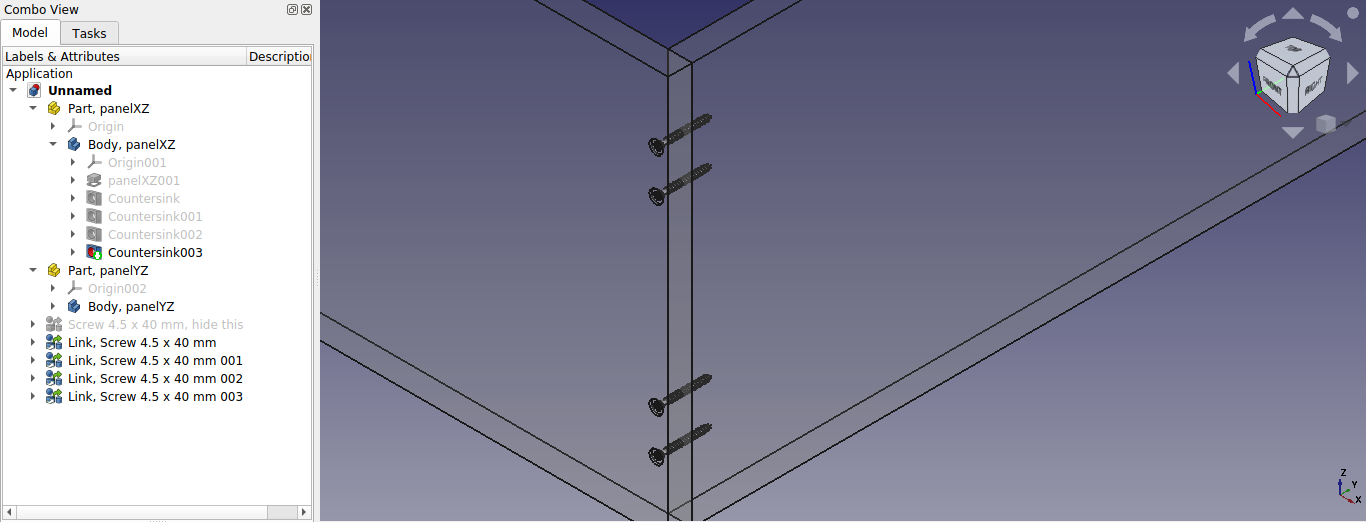
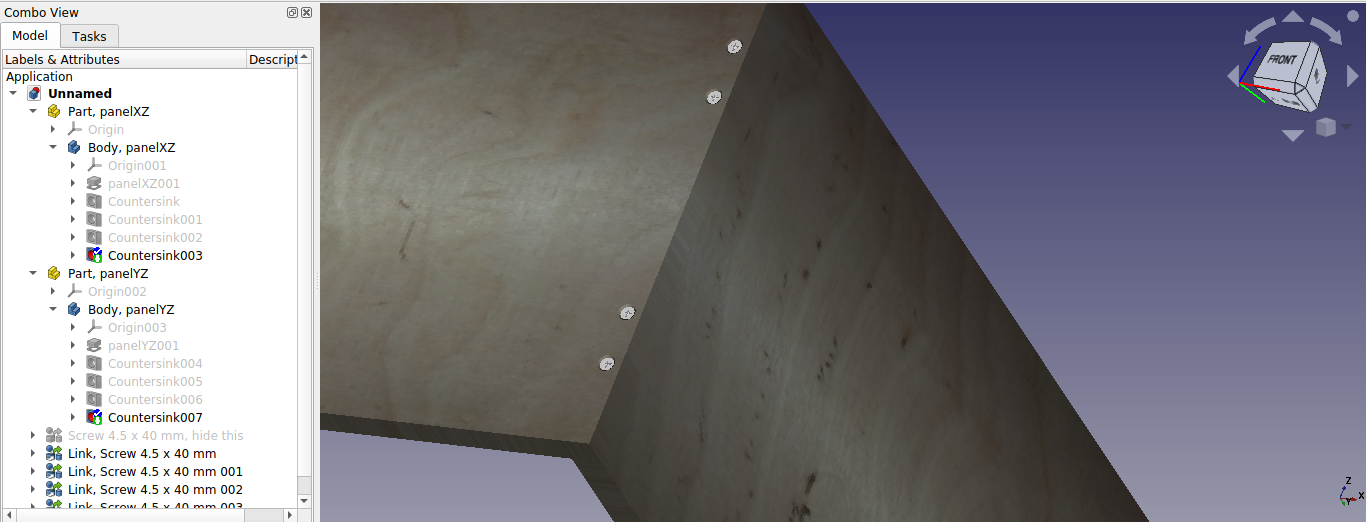
docs & realistic screws for angles

diff --git a/Tools/MagicPanels/MagicPanels.py b/Tools/MagicPanels/MagicPanels.py
@@ -3339,46 +3339,56 @@ def sketch2dowel():
 	
 		objects = FreeCADGui.Selection.getSelection()
 
-		if len(objects) != 2:
+		if len(objects) < 2:
 			raise
+
+		face = FreeCADGui.Selection.getSelectionEx()[0].SubObjects[0]
+
+		i = 0
+		for o in objects:
 		
-		sketch = FreeCADGui.Selection.getSelection()[0]
-		face = FreeCADGui.Selection.getSelectionEx()[1].SubObjects[0]
-		
-		if not sketch.isDerivedFrom("Sketcher::SketchObject"):
-			raise
+			i = i + 1
 			
-		hole = ""
-			
-		if sketch.InList[0].isDerivedFrom("PartDesign::Hole"):
-			hole = sketch.InList[0]
-			
-		if sketch.InList[1].isDerivedFrom("PartDesign::Hole"):
-			hole = sketch.InList[1]
-			
-		if hole == "":
-			raise
+			if i == 1:
+				base = o
+				continue
+
+			sketch = o
+
+			if not sketch.isDerivedFrom("Sketcher::SketchObject"):
+				raise
 				
-		x = sketch.Placement.Base.x
-		y = sketch.Placement.Base.y
-		z = sketch.Placement.Base.z
-		r = getFaceObjectRotation(hole, face)
-			
-		d = FreeCAD.ActiveDocument.addObject("Part::Cylinder","DowelSketch")
-		d.Label = "Dowel - " + str(sketch.Label)
+			hole = ""
+				
+			if sketch.InList[0].isDerivedFrom("PartDesign::Hole"):
+				hole = sketch.InList[0]
+				
+			if sketch.InList[1].isDerivedFrom("PartDesign::Hole"):
+				hole = sketch.InList[1]
+				
+			if hole == "":
+				raise
+					
+			x = sketch.Placement.Base.x
+			y = sketch.Placement.Base.y
+			z = sketch.Placement.Base.z
+			r = getFaceObjectRotation(hole, face)
+				
+			d = FreeCAD.ActiveDocument.addObject("Part::Cylinder","DowelSketch")
+			d.Label = "Dowel - " + str(sketch.Label)
 
-		d.Radius = hole.Diameter / 2
-		d.Height = hole.Depth
+			d.Radius = hole.Diameter / 2
+			d.Height = hole.Depth
 
-		setPlacement(d, x, y, z, r)
+			setPlacement(d, x, y, z, r)
 
-		return d
+		return
 
 	except:
 		
 		info = ""
 		
-		info += translate('sketch2dowel', 'This tool allows to create dowel at the selected hole. To create dowel select Sketch for the hole and face of the hole object. The dowel position will be get from the Sketch and the face refer to the side the dowel will be raised. The dowel radius and height will be get from hole object. If the hole is throughAll the dowel height will be very big, so make sure you use dimensions instead for hole. To select more objects hold left CTRL key during selection.')
+		info += translate('sketch2dowel', '<b>First select face, next Sketches of the holes to create dowels.</b><br><br> <b>Note:</b> This tool allows to create dowel from Sketch of the hole. The first selected face refers to the side the dowel will be raised, exact orientation for the dowel. Dowel position will be get from the Sketch. The dowel Radius and Height will be get from hole object. If the hole is throughAll the dowel height will be very big, so make sure you use dimensions for hole. To select more Sketches hold left CTRL key during selection.')
 
 		showInfo("sketch2dowel", info)
 

diff --git a/Docs/README.md b/Docs/README.md
@@ -60,6 +60,7 @@ Woodworking workbench has been created because of my woodworking and coding hobb
   * [Pilot holes for angles, hinges](#pilot-holes-for-angles-hinges)
 * [Realistic parts](#realistic-parts)
   * [Realistic screws and pilot holes](#realistic-screws-and-pilot-holes)
+  * [Realistic screws and angles](#realistic-screws-and-angles)
 * [Extras](#extras)
 * [Translations](#translations)
 * [Contact](#contact)
@@ -378,7 +379,7 @@ However, if you make your own detailed part or order somewhere, you need to fulf
 
 ### Realistic screws and pilot holes
 
-* <img align="left" width="48" height="48" src="https://raw.githubusercontent.com/dprojects/Woodworking/master/Icons/drillCountersinks.png"> If you want to drill pilot holes and apply realistic screws to the holes first you have to drill holes using procedure described at: [Drilling serially](#drilling-serially). For quick way I use the drilling countersinks icon to drill the resto of the holes in edge.
+* <img align="left" width="48" height="48" src="https://raw.githubusercontent.com/dprojects/Woodworking/master/Icons/drillCountersinks.png"> If you want to drill pilot holes and apply realistic screws to the holes first you have to drill holes using procedure described at: [Drilling serially](#drilling-serially). For quick way I use the drilling countersinks icon to drill the rest of the holes in edge.
 
   ![img](https://raw.githubusercontent.com/dprojects/Woodworking/master/Docs/Screenshots/RealisticScrews001.png)
 
@@ -396,7 +397,32 @@ However, if you make your own detailed part or order somewhere, you need to fulf
   ![img](https://raw.githubusercontent.com/dprojects/Woodworking/master/Docs/Screenshots/RealisticScrews005.png)
   ![img](https://raw.githubusercontent.com/dprojects/Woodworking/master/Docs/Screenshots/RealisticScrews006.png)
   ![img](https://raw.githubusercontent.com/dprojects/Woodworking/master/Docs/Screenshots/RealisticScrews007.png)
+  
+* You can also apply textures for the elements to get more realistic preview:
+
   ![img](https://raw.githubusercontent.com/dprojects/Woodworking/master/Docs/Screenshots/RealisticScrews008.png)
+
+### Realistic screws and angles
+
+* <img align="left" width="48" height="48" src="https://raw.githubusercontent.com/dprojects/Woodworking/master/Icons/sketch2dowel.png"> First you have to create angles or any other fixture and drill holes according to this procedure: [Pilot holes for angles, hinges](#pilot-holes-for-angles-hinges). If you have it, first select face of the element, and next all `Sketches` of the holes. This allow you to create dowels directly from `Sketches` with exact orientation and size. If you have it selected click [sketch2dowel](#sketch2dowel):
+
+  ![img](https://raw.githubusercontent.com/dprojects/Woodworking/master/Docs/Screenshots/RealisticAngles001.png)
+  ![img](https://raw.githubusercontent.com/dprojects/Woodworking/master/Docs/Screenshots/RealisticAngles002.png)
+  ![img](https://raw.githubusercontent.com/dprojects/Woodworking/master/Docs/Screenshots/RealisticAngles003.png)
+
+* For other element also first select face of the element, and next all `Sketches` of the holes. This allow you to create dowels directly from `Sketches` with exact orientation and size. If you have it selected click [sketch2dowel](#sketch2dowel):
+  
+  ![img](https://raw.githubusercontent.com/dprojects/Woodworking/master/Docs/Screenshots/RealisticAngles004.png)
+  
+* <img align="left" width="48" height="48" src="https://raw.githubusercontent.com/dprojects/Woodworking/master/Icons/panel2link.png"> Now merge realistic screw with your current active document. You can create such screw with PartDesign or even order such realistic part. For this case I use [Screw 4 x 16 mm](https://github.com/dprojects/Woodworking/tree/master/Examples/Fixture#screw-4-x-16-mm) from [Fixture examples](https://github.com/dprojects/Woodworking/tree/master/Examples/Fixture). The dowels applied before is some kind of references points and they can be replaced with realistic screws. To replace the fake screws with realistic screws. Select the realistic screw and next all the fake dowels. Next click [panel2link](#panel2link) icon:
+  
+  ![img](https://raw.githubusercontent.com/dprojects/Woodworking/master/Docs/Screenshots/RealisticAngles005.png)
+  
+* As you see the screws are above the holes. To hide them all, select the `Body` container of the base screw, and move it dow as much you want, you can use [magicMove](#magicmove) for that with exact step: 
+
+  ![img](https://raw.githubusercontent.com/dprojects/Woodworking/master/Docs/Screenshots/RealisticAngles006.png)
+
+  **Note:** I use little bigger screws for angles than normally, they hold things little better than 3 x 20 mm, so the head of the screw is not flat with the surface but you can use any screw size with the same way.
 
 # Extras
 
